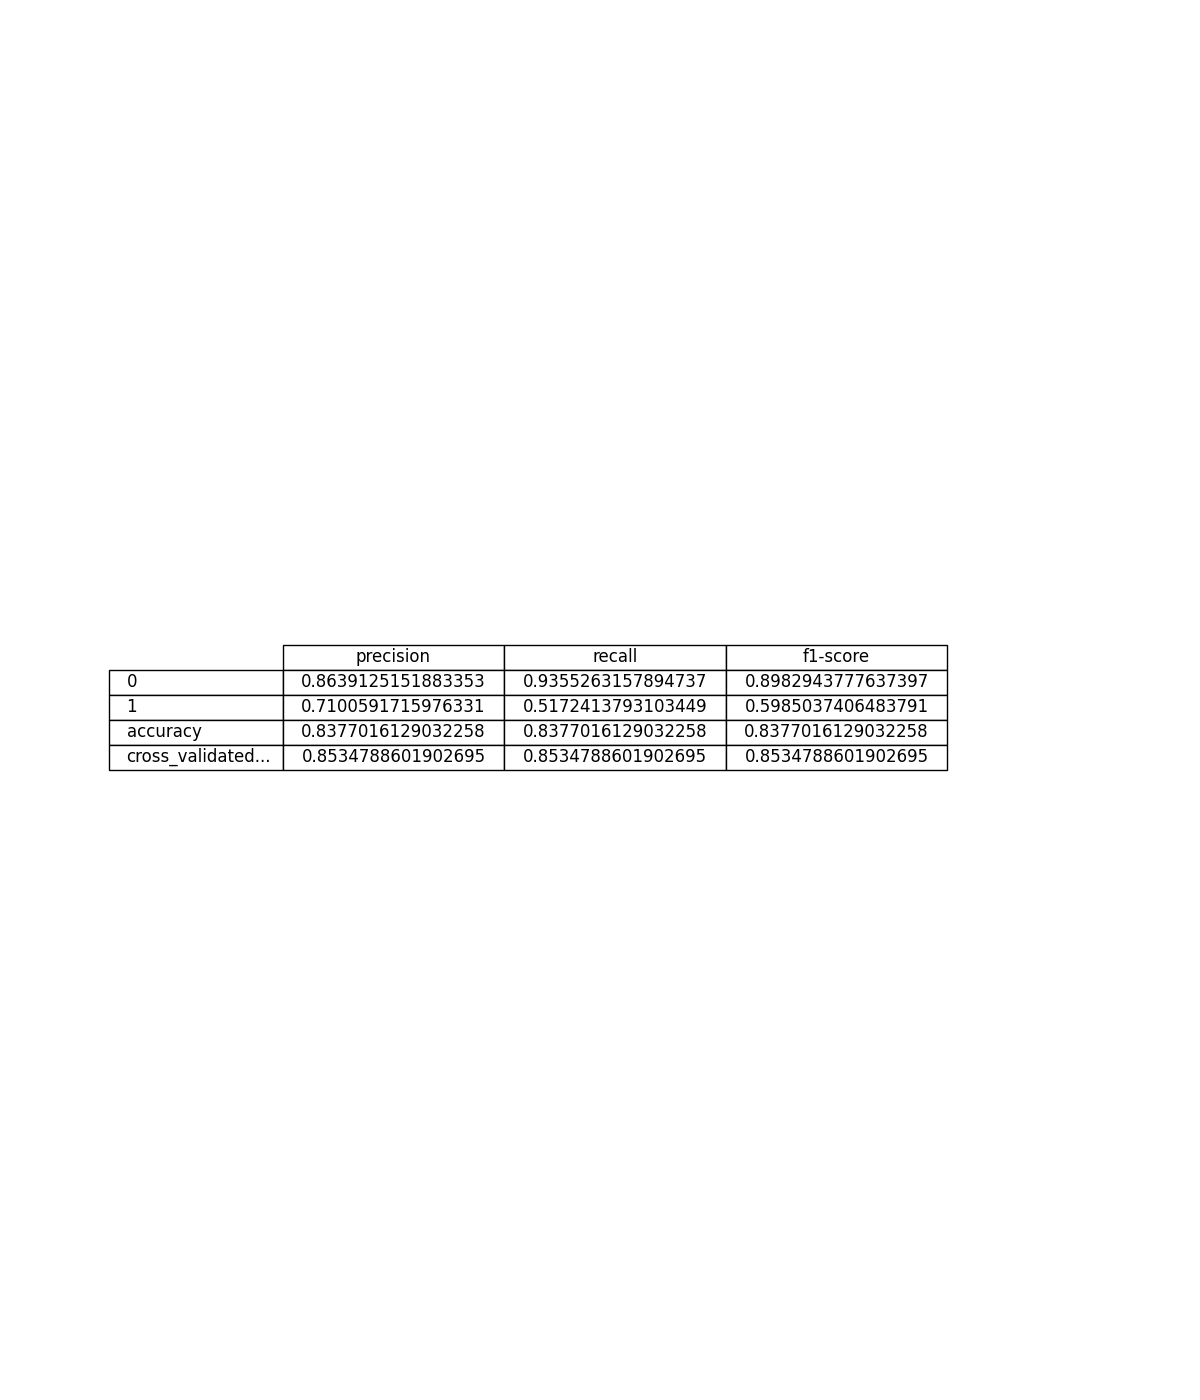
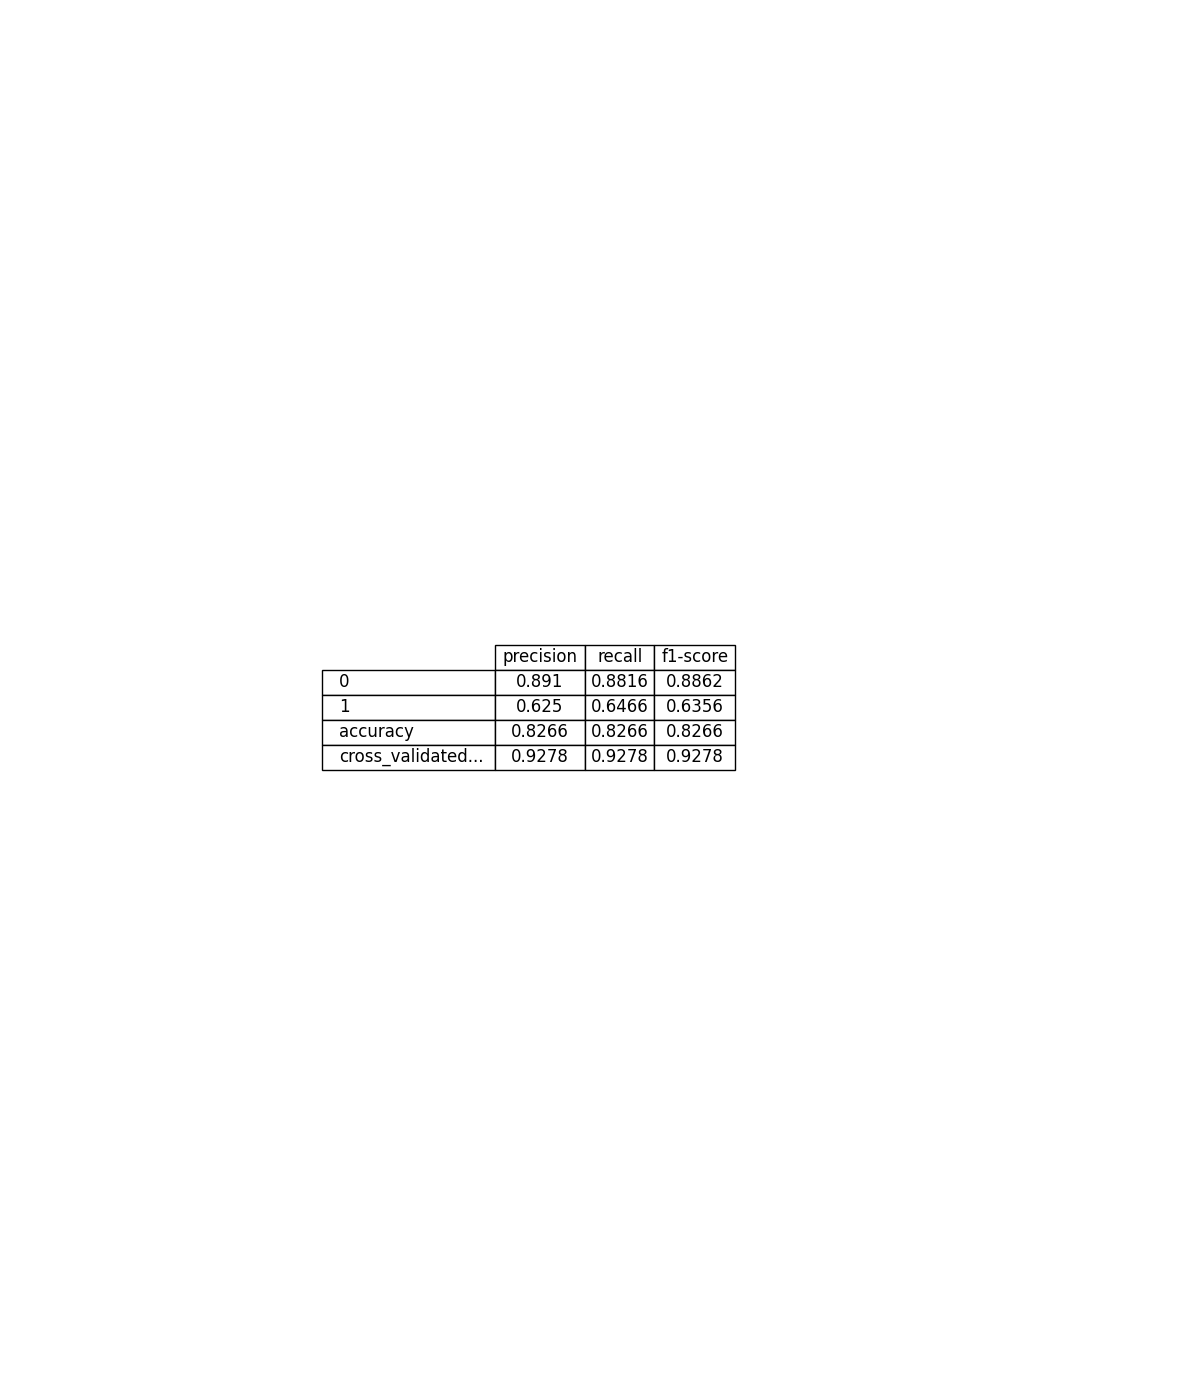
Dealing with an imbalanced dataset

Changed region(s): [[0.0925, 0.4607, 0.8017, 0.5529]]

diff --git a/src/model_training.py b/src/model_training.py
@@ -8,6 +8,7 @@ import utils
 from sklearn.impute import SimpleImputer
 from visualization_and_analysis import create_matplotlib_table, plot_confusion_matrix
 import os
+from imblearn.over_sampling import RandomOverSampler
 
 # Get X (features) and y (target)
 def get_X_y(data):
@@ -22,12 +23,18 @@ def impute_missing_values(X):
     X_imputed = pd.DataFrame(X_imputed, columns=X.columns)
     return X_imputed
 
+def apply_ros(X_train, y_train):
+    ros = RandomOverSampler(random_state=42)
+    X_train_resampled, y_train_resampled = ros.fit_resample(X_train, y_train)
+    return X_train_resampled, y_train_resampled
+
 def split_data(data):
     X, y = get_X_y(data)
     X_imputed = impute_missing_values(X)
     X_train, X_test, y_train, y_test = train_test_split(X_imputed, y, test_size=0.4, random_state=42)
-    return X_train, X_test, y_train, y_test
+    X_train_resampled, y_train_resampled = apply_ros(X_train, y_train)
 
+    return X_train_resampled, X_test, y_train_resampled, y_test
 
 def train_and_evaluate_model(model, X_train, X_test, y_train, y_test):
     model.fit(X_train, y_train)
@@ -50,7 +57,7 @@ def print_top_5_feature_importances(model_name, model, X_train):
     total_features, top_5_features = top_5_feature_importances(model, X_train)
     print(f"\n{model_name} top 5 features out of {total_features} features:")
     for feature, importance in top_5_features:
-        print(f"{feature}: {importance}")
+        print(f"{feature}: {importance:.4f}")
 
 def convert_model_report_to_df(report):
     report_df = pd.DataFrame(report).transpose()
@@ -59,7 +66,7 @@ def convert_model_report_to_df(report):
     return report_df
 
 def print_model_results(model_name, accuracy, report_df):
-    print(f"{model_name} accuracy: {accuracy}")
+    print(f"{model_name} accuracy: {accuracy:.4f}")
     print("Classification report table:")
     print(report_df)
 
@@ -94,7 +101,7 @@ def train_and_evaluate_models(data):
         report['cross_validated_accuracy'] = cv_accuracy
 
         # Remove support column and Macro average and Weighted average rows and convertq to dataframe
-        report_df = convert_model_report_to_df(report)
+        report_df = convert_model_report_to_df(report).round(4)
         print_model_results(model_name, accuracy, report_df)
         report_save_path = os.path.join('results', f'{model_name.lower()}_classification_report.png')
         create_matplotlib_table(report_df, report_save_path)

diff --git a/src/visualization_and_analysis.py b/src/visualization_and_analysis.py
@@ -110,6 +110,24 @@ def create_matplotlib_table(summary, save_path):
     plt.savefig(save_path) 
     plt.close()
 
+def calculate_class_proportions(y):
+    class_counts = y.value_counts()
+    total_count = len(y)
+    class_proportions = class_counts / total_count
+    return class_proportions
+
+def plot_class_distribution(y, title='Class Distribution', save_path=None):
+    class_proportions = calculate_class_proportions(y)
+    plt.figure(figsize=FIGSIZE)
+    plt.bar(class_proportions.index, class_proportions.values)
+    plt.xlabel('Class')
+    plt.ylabel('Proportion')
+    plt.xticks([0, 1])
+    plt.title(title)
+
+    if save_path:
+        plt.savefig(save_path)
+
 def shorten_label(label):
     if len(label) > 15:
         return label[:15] + '...'
@@ -173,9 +191,15 @@ def visualize_and_analyze(data, continuous_features, categorical_features, y_col
     if not os.path.exists('results'):
         os.makedirs('results')
 
+    target_col_data = data[y_col]
+    
+    plot_class_distribution(target_col_data, title='Class Distribution in Training Set', save_path=os.path.join('results', 'class_distribution_train.png'))
+
     show_continuous_relationship(data, continuous_features, y_col)
 
     show_categorical_relationship(data, categorical_features, y_col)
+
+    
 
 def main():
     data = utils.pandas_load_csv("output_data.csv")
